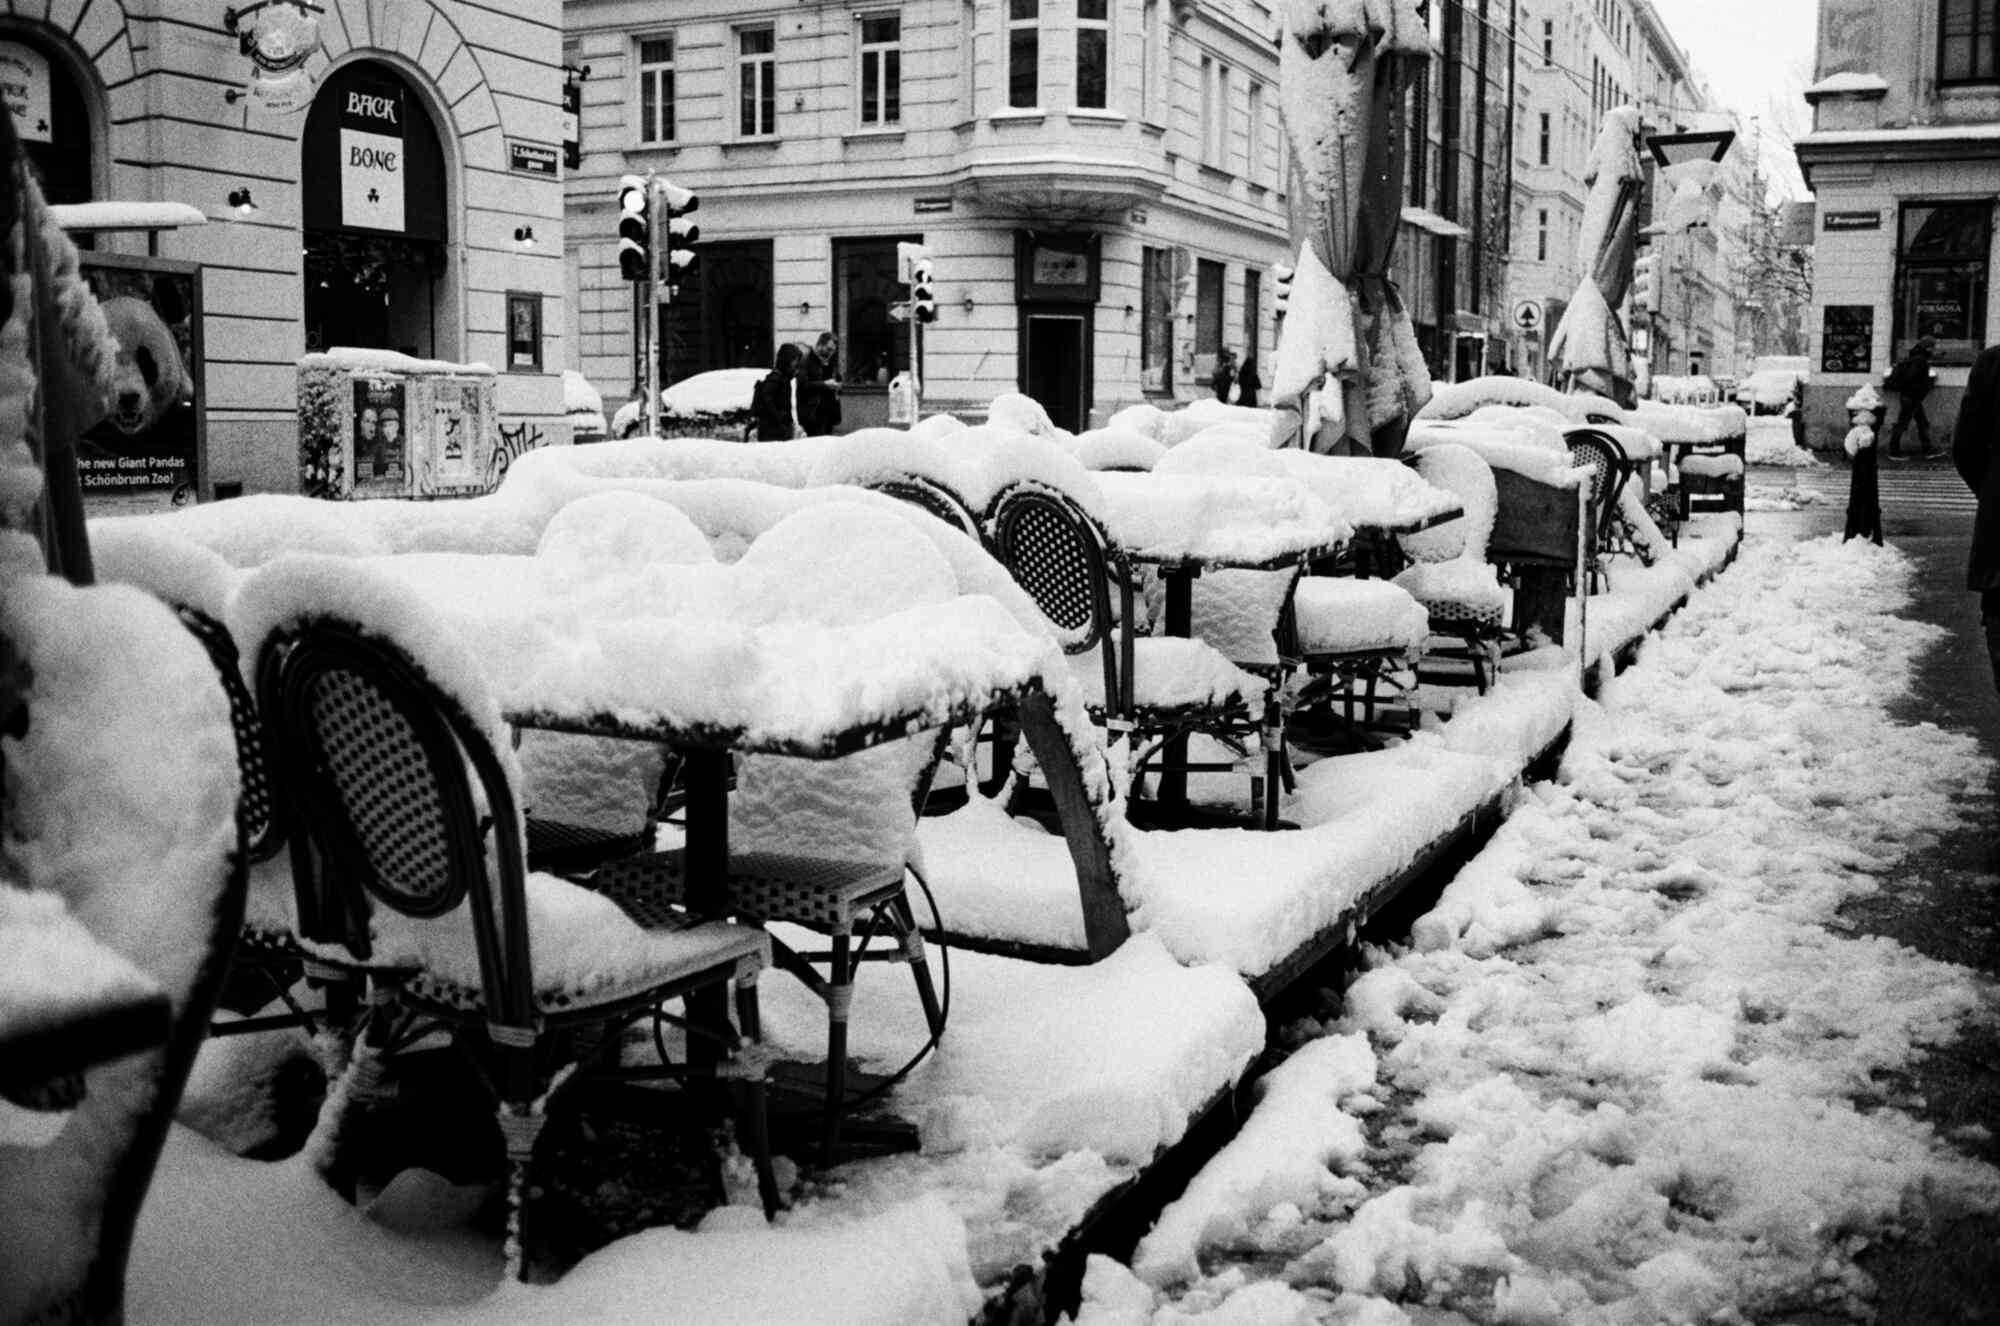
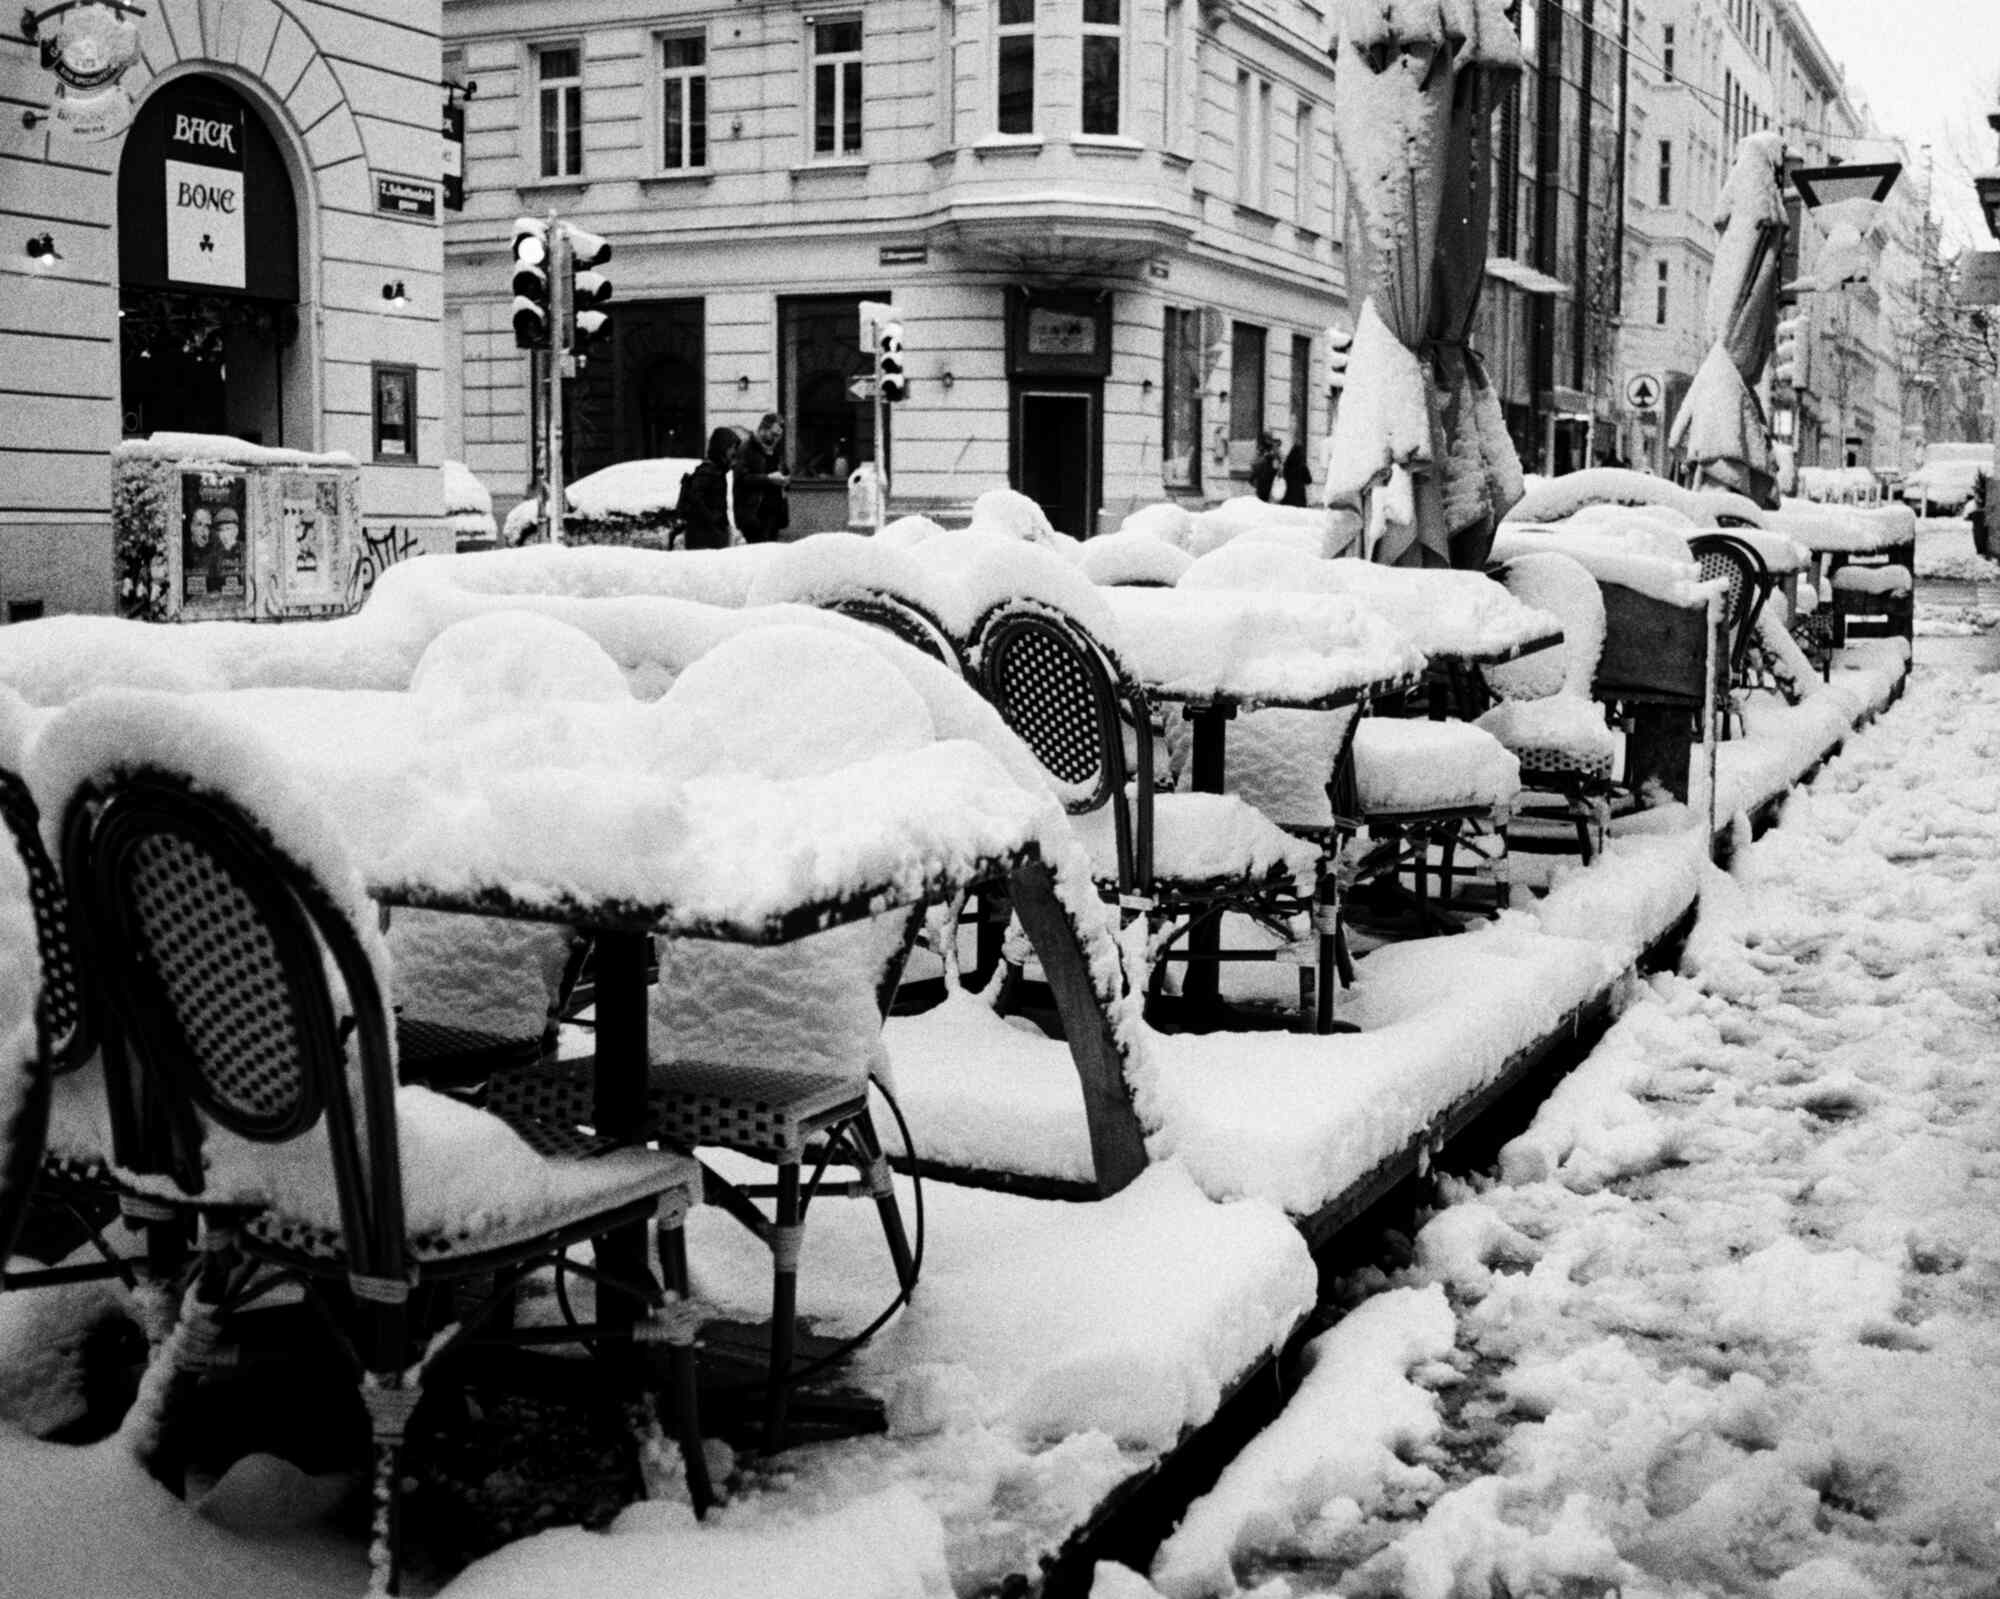
Kalbfleisch

diff --git a/about.html b/about.html
@@ -1,0 +1,51 @@
+<!DOCTYPE html>
+<html lang="en">
+
+<head>
+    <meta charset="UTF-8">
+    <meta name="viewport" content="width=device-width, initial-scale=1.0">
+    <title>About | Lukas Edelmayer</title>
+
+    <link rel="preconnect" href="https://fonts.googleapis.com">
+    <link rel="preconnect" href="https://fonts.gstatic.com" crossorigin>
+    <link href="https://fonts.googleapis.com/css2?family=IBM+Plex+Mono:wght@300;400;500&display=swap" rel="stylesheet">
+
+    <link rel="stylesheet" href="css/style.css">
+</head>
+
+<body>
+
+<header>
+    <div class="header-inner">
+    <h1><a href="index.html">Lukas Edelmayer</a></h1>
+
+    <nav>
+        <a href="index.html">Home</a>
+        <a href="work.html">Work</a>
+        <a class="active"href="about.html">About</a>
+    </nav>
+
+    </div>
+
+</header>
+
+<main class="intro">
+
+    <h2>About</h2>
+
+    <p>
+        I am Lukas Edelmayer, a photographer based in Vienna.
+    </p>
+
+    <p>
+        I mainly document everyday places, urban spaces and quiet moments through the medium of 35 mm film photography.
+    </p>
+
+    <p>
+        This website is an ongoing archive of my work.
+    </p>
+
+</main>
+
+</body>
+</html>

diff --git a/work.html b/work.html
@@ -1,0 +1,43 @@
+<!DOCTYPE html>
+<html lang="en">
+
+<head>
+    <meta charset="UTF-8">
+    <meta name="viewport" content="width=device-width, initial-scale=1.0">
+    <title>Work | Lukas Edelmayer</title>
+
+    <link rel="preconnect" href="https://fonts.googleapis.com">
+    <link rel="preconnect" href="https://fonts.gstatic.com" crossorigin>
+    <link href="https://fonts.googleapis.com/css2?family=IBM+Plex+Mono:wght@300;400;500&display=swap" rel="stylesheet">
+
+    <link rel="stylesheet" href="css/style.css">
+</head>
+
+<body>
+
+<header>
+    <div class="header-inner">
+    <h1><a href="index.html">Lukas Edelmayer</a></h1>
+
+    <nav>
+        <a href="index.html">Home</a>
+        <a class="active" href="work.html">Work</a>
+        <a href="about.html">About</a>
+    </nav>
+
+    </div>
+</header>
+
+<main class="intro">
+
+    <h2>Work</h2>
+
+    <p>
+        This portfolio is growing continuously.
+        New projects will be published as they are completed.
+    </p>
+
+</main>
+
+</body>
+</html>

diff --git a/css/style.css b/css/style.css
@@ -4,6 +4,10 @@
     box-sizing: border-box;
 }
 
+html {
+    scrollbar-gutter: stable;
+}
+
 body {
     font-family: Helvetica, Arial, sans-serif;
     color: #111;
@@ -27,6 +31,19 @@ header {
     backdrop-filter: blur(6px);
     
     z-index: 1000;
+    
+}
+
+.header-inner {
+
+    width: min(900px, 85%);
+    margin: 0 auto;
+
+    display: flex;
+    justify-content: space-between;
+    align-items: center;
+
+    padding: 0.5rem 0;
 }
 
 header h1 a {
@@ -35,17 +52,30 @@ header h1 a {
     white-space: nowrap;
 }
 
+
+header h1 {
+    font-family: "IBM Plex Mono", monospace;
+    font-size: 1.5rem;
+    font-weight: 600;
+    letter-spacing: 0.08em;
+}
+
+
 nav a {
     font-family: "IBM Plex Mono", monospace;
     font-size: 0.9rem;
     color: #111;
     text-decoration: none;
-    opacity: 0.7;
+    opacity: 0.6;
     margin-left: 2rem;
     transition: opacity 0.2s ease;
 }
 
 nav a:hover {
+    opacity: 1;
+}
+
+nav a.active {
     opacity: 1;
 }
 
@@ -70,7 +100,7 @@ img {
 
 .project-info {
     width: min(900px, 85%);
-    margin: 0 auto 8cap auto;
+    margin: 0 auto 8rem auto;
 }
 
 .project-info h2 {
@@ -110,6 +140,8 @@ img {
 }
 
 .project-header {
+font-size: 1rem;
+font-weight: 400; 
 margin-bottom: 2rem;
 }
 .gallery {
@@ -173,3 +205,4 @@ margin-bottom: 2rem;
     }
 
 }
+

diff --git a/Brunnenmarkt.html b/Brunnenmarkt.html
@@ -14,9 +14,18 @@
 <body>
 
 <header>
+    <div class="header-inner">
+    <h1>
+        <a href="index.html">Lukas Edelmayer</a>
+    </h1>
+
     <nav>
-        <a href="index.html">← Home</a>
+        <a href="index.html">Home</a>
+        <a href="work.html">Work</a>
+        <a href="about.html">About</a>
     </nav>
+    </div>
+
 </header>
 
 <main class="project-container">
@@ -29,11 +38,14 @@
     
     <img src="images/20260614_DSCF4865.jpg" class="landscape" alt="">
     <img src="images/20260614_DSCF4866.jpg" class="portrait" alt="">
-    <img src="images/20260614_DSCF4862.jpg" class="portrait" alt="">
+    <img src="images/20260703_DSCF4976.jpg" class="landscape" alt="">
+    <img src="images/20260703_DSCF4977.jpg" class="portrait" alt="">
     <img src="images/20260614_DSCF4869.jpg" class="landscape" alt="">
+    <img src="images/20260614_DSCF4862.jpg" class="portrait" alt="">
     <img src="images/20260614_DSCF4872.jpg" class="landscape" alt="">
     <img src="images/20260614_DSCF4873.jpg" class="landscape" alt="">
-    <img src="images/hero.jpg" class="landscape" alt="">
+    <img src="images/20260614_DSCF4863.jpg" class="landscape" alt="">
+
 
 </div>
 </main>

diff --git a/Brunnentankstelle.html b/Brunnentankstelle.html
@@ -14,9 +14,18 @@
 <body>
 
 <header>
+    <div class="header-inner">
+    <h1>
+        <a href="index.html">Lukas Edelmayer</a>
+    </h1>
+
     <nav>
-        <a href="index.html">← Home</a>
+        <a href="index.html">Home</a>
+        <a href="work.html">Work</a>
+        <a href="about.html">About</a>
     </nav>
+    </div>
+
 </header>
 
 <main class="project-container">
@@ -27,9 +36,11 @@
 
 <div class="gallery">
 
-    <img src="images/hero02.jpg" class="landscape" alt="">
-    <img src="images/20260614_DSCF4867.jpg" class="portrait" alt="">
+    <img src="images/20260703_DSCF4985.jpg" class="portrait" alt="">
+    <img src="images/20260703_DSCF4987.jpg" class="portrait" alt="">
     <img src="images/20260614_DSCF4870.jpg" class="portrait" alt="">
+    <img src="images/20260614_DSCF4867.jpg" class="portrait" alt="">
+
     
  
 

diff --git a/Schneedecke.html b/Schneedecke.html
@@ -10,13 +10,23 @@
     <link rel="preconnect" href="https://fonts.googleapis.com">
     <link rel="preconnect" href="https://fonts.gstatic.com" crossorigin>
     <link href="https://fonts.googleapis.com/css2?family=IBM+Plex+Mono:wght@300;400&display=swap" rel="stylesheet">
+
 </head>
 <body>
 
 <header>
+    <div class="header-inner">
+    <h1>
+        <a href="index.html">Lukas Edelmayer</a>
+    </h1>
+
     <nav>
-        <a href="index.html">← Home</a>
+        <a href="index.html">Home</a>
+        <a href="work.html">Work</a>
+        <a href="about.html">About</a>
     </nav>
+    </div>
+
 </header>
 
 <main class="project-container">
@@ -35,7 +45,6 @@
     <img src="images/20260223_005154700024.jpg" class="landscape" alt="">   
     <img src="images/20260223_005154700025.jpg" class="landscape" alt="">
     <img src="images/20260223_005154700026.jpg" class="landscape" alt="">
-    <img src="images/20260223_005154700028.jpg" class="landscape" alt="">
     <img src="images/20260223_005154700030.jpg" class="landscape" alt="">   
     <img src="images/20260223_005154700034.jpg" class="landscape" alt="">
 

diff --git a/index.html b/index.html
@@ -19,14 +19,20 @@
 <body>
 
 <header>
+    <div class="header-inner">
+
     <h1>
         <a href="index.html">Lukas Edelmayer</a>
     </h1>
 
     <nav>
-        <a href="index.html">Work</a>
+        <a class="active" href="index.html">Home</a>
+        <a href="work.html">Work</a>
         <a href="about.html">About</a>
     </nav>
+
+    </div>
+
 </header>
 
 <section class="project">
@@ -47,7 +53,7 @@
 <section class="project">
 <div class="hero">
     <a href="Brunnenmarkt.html">
-        <img src="images/hero.jpg" alt="Brunnenmarkt">
+        <img src="images/20260614_DSCF4863.jpg" alt="Brunnenmarkt">
     </a>
 </div>
 
@@ -62,7 +68,7 @@
 <section class="project">
 <div class="hero">
     <a href="Brunnentankstelle.html">
-        <img src="images/hero02.jpg" alt="Brunnentankstelle">
+        <img src="images/20260703_DSCF4986.jpg" alt="Brunnentankstelle">
     </a>
 </div>
 

diff --git a/VorDemFest.html b/VorDemFest.html
@@ -14,9 +14,18 @@
 <body>
 
 <header>
+    <div class="header-inner">
+    <h1>
+        <a href="index.html">Lukas Edelmayer</a>
+    </h1>
+
     <nav>
-        <a href="index.html">← Home</a>
+        <a href="index.html">Home</a>
+        <a href="work.html">Work</a>
+        <a href="about.html">About</a>
     </nav>
+    </div>
+
 </header>
 
 <main class="project-container">